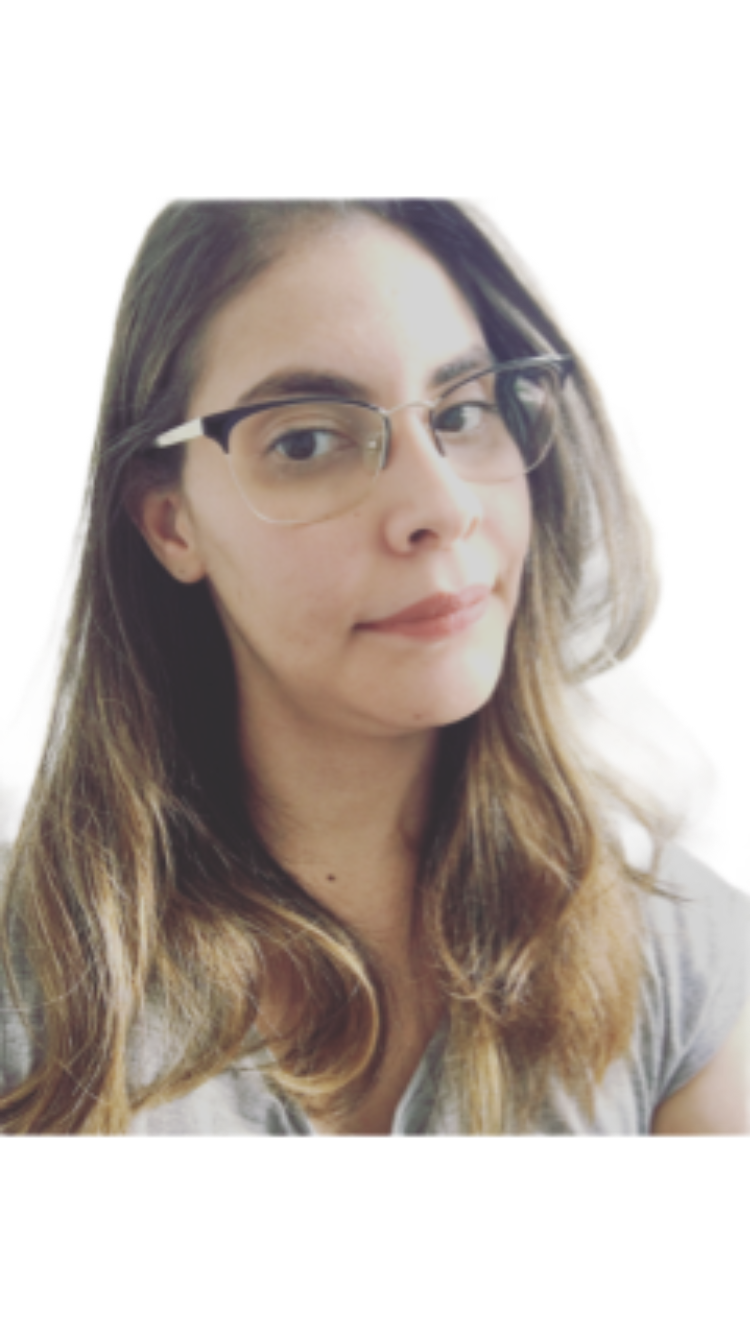
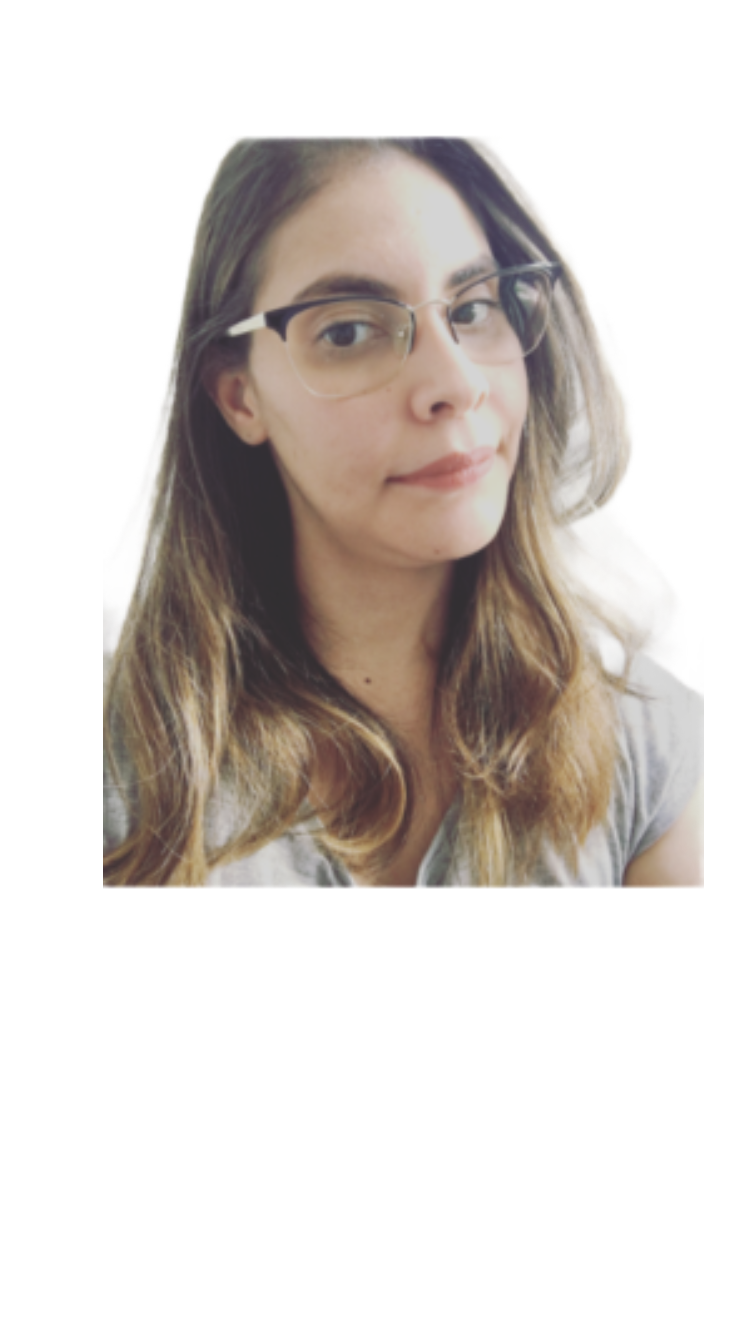
ajeitar posicionamento das fotos dos palestrantes

diff --git a/public/css/style.css b/public/css/style.css
@@ -433,9 +433,9 @@ input#email {
 
 .palestrante-foto{
   width: 200px;
-  height: 200px;
   position: relative;
   z-index: 2;
+  float: left;
 }
 
 .palestrante-nome{
